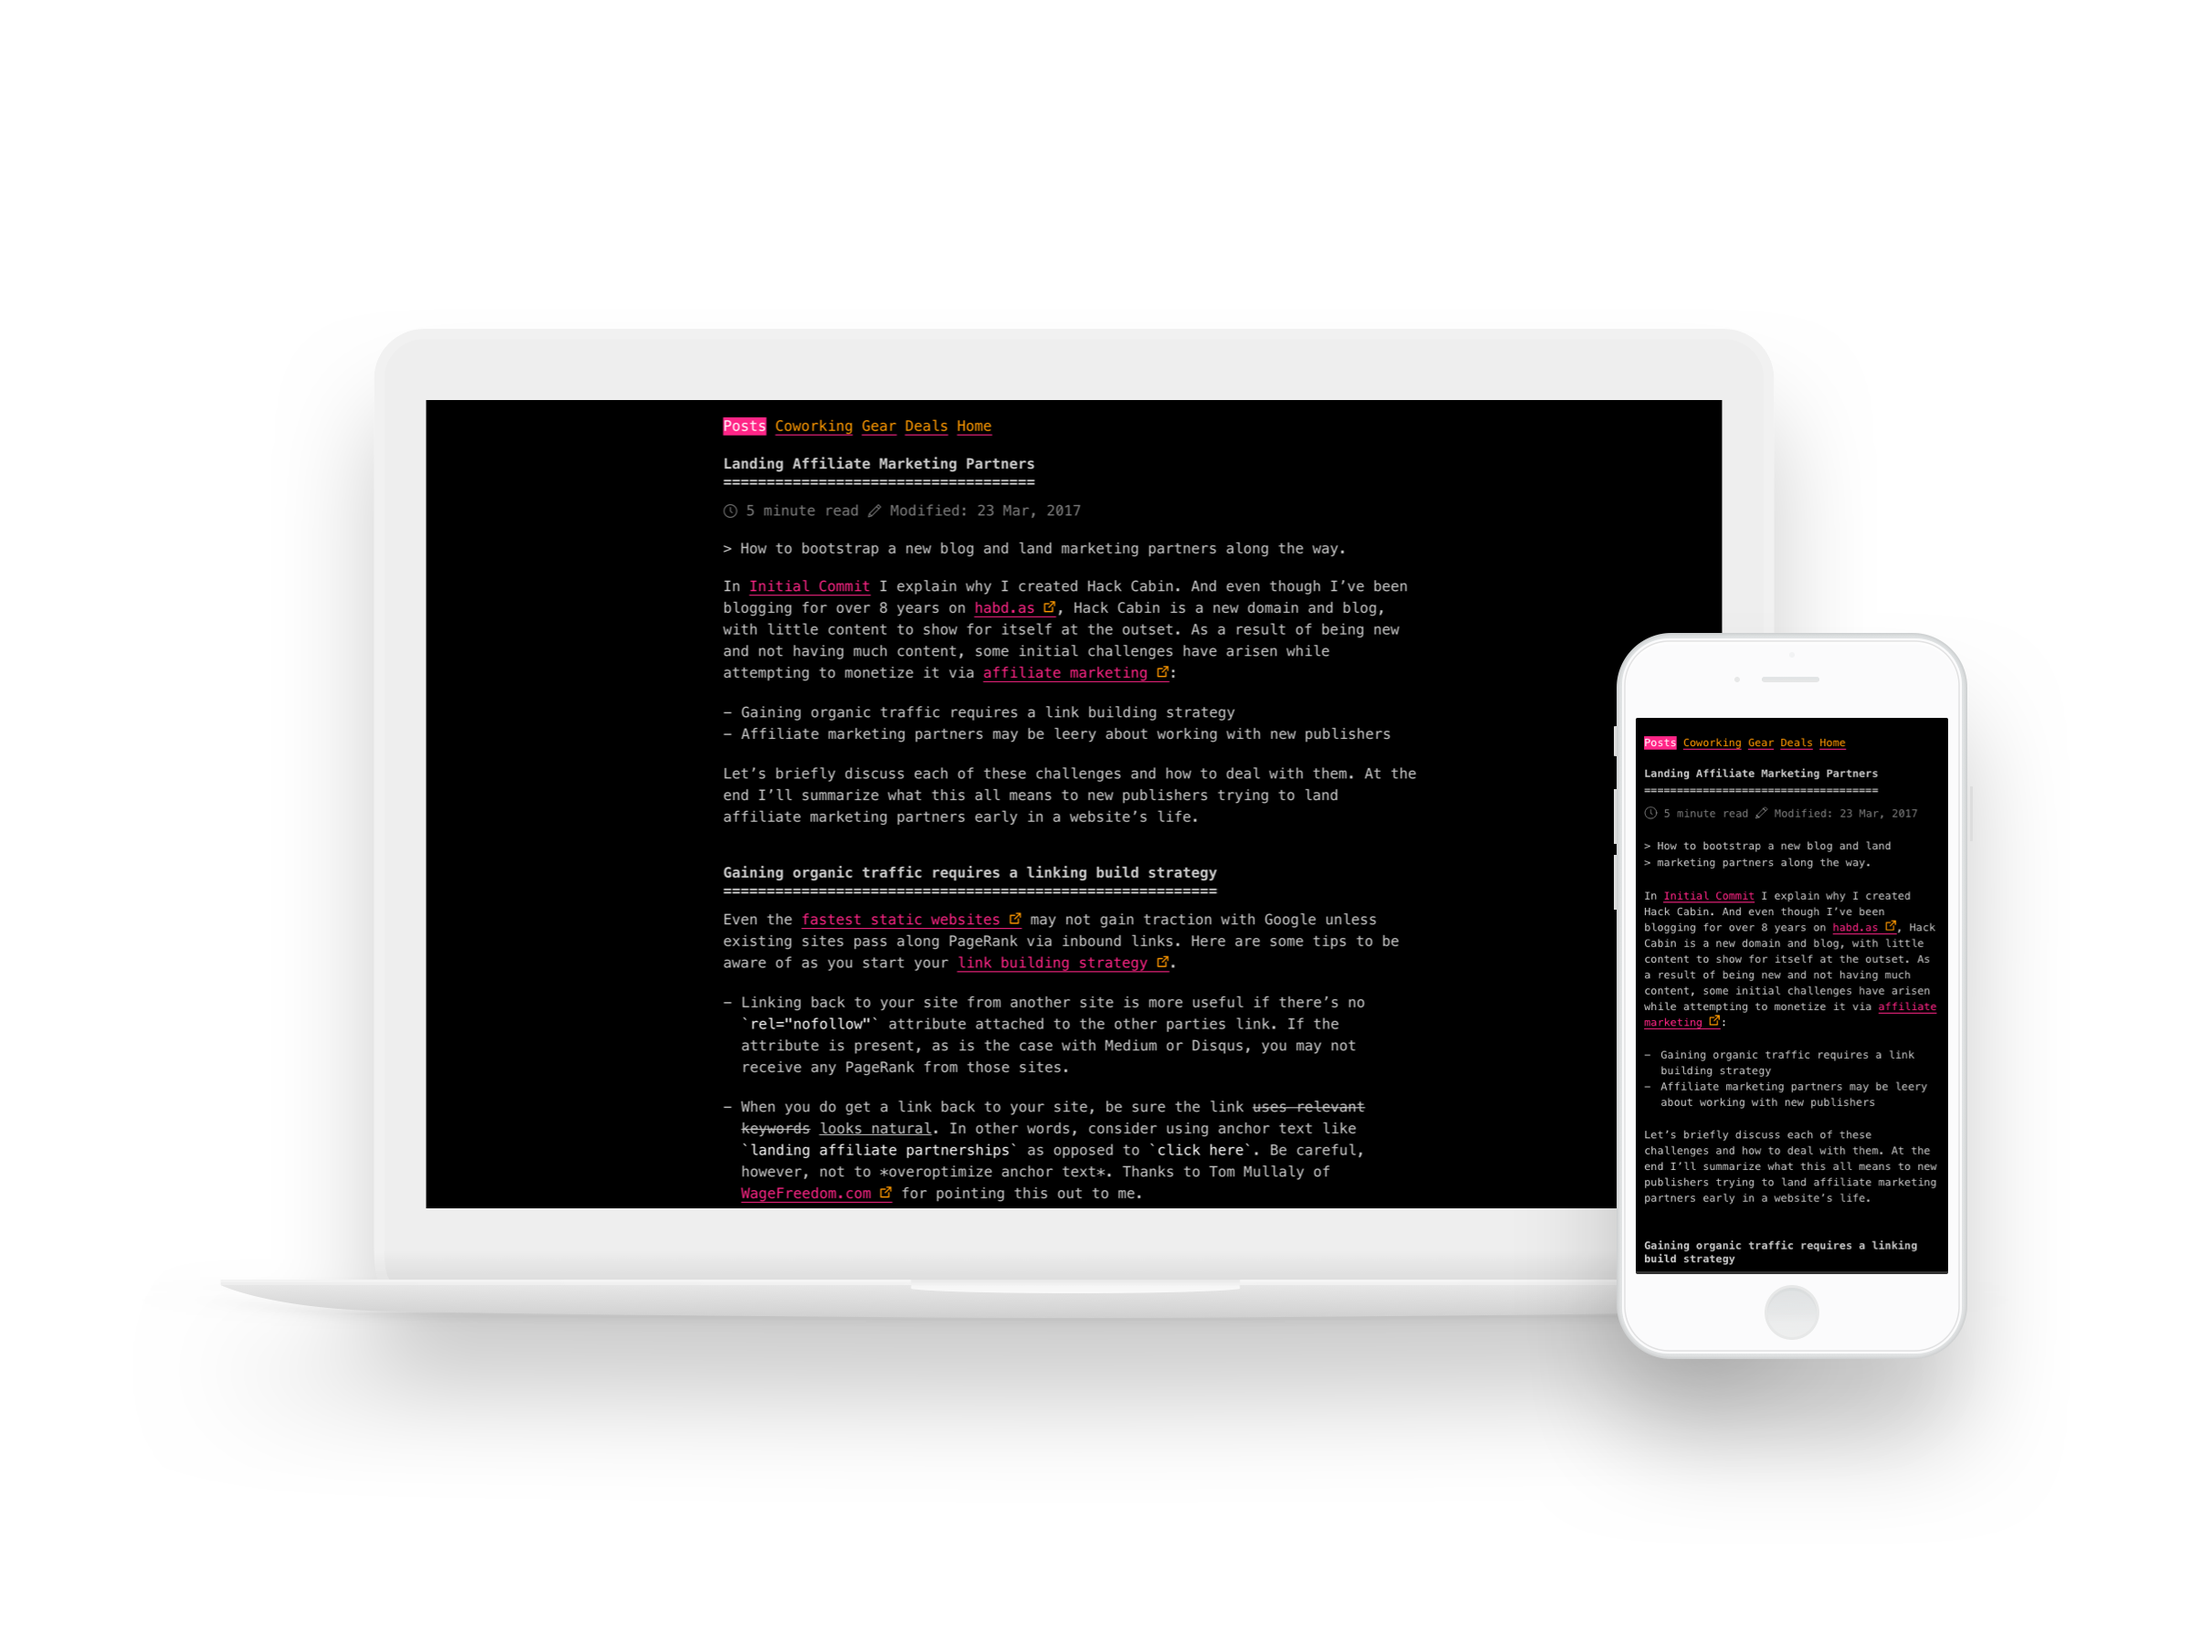
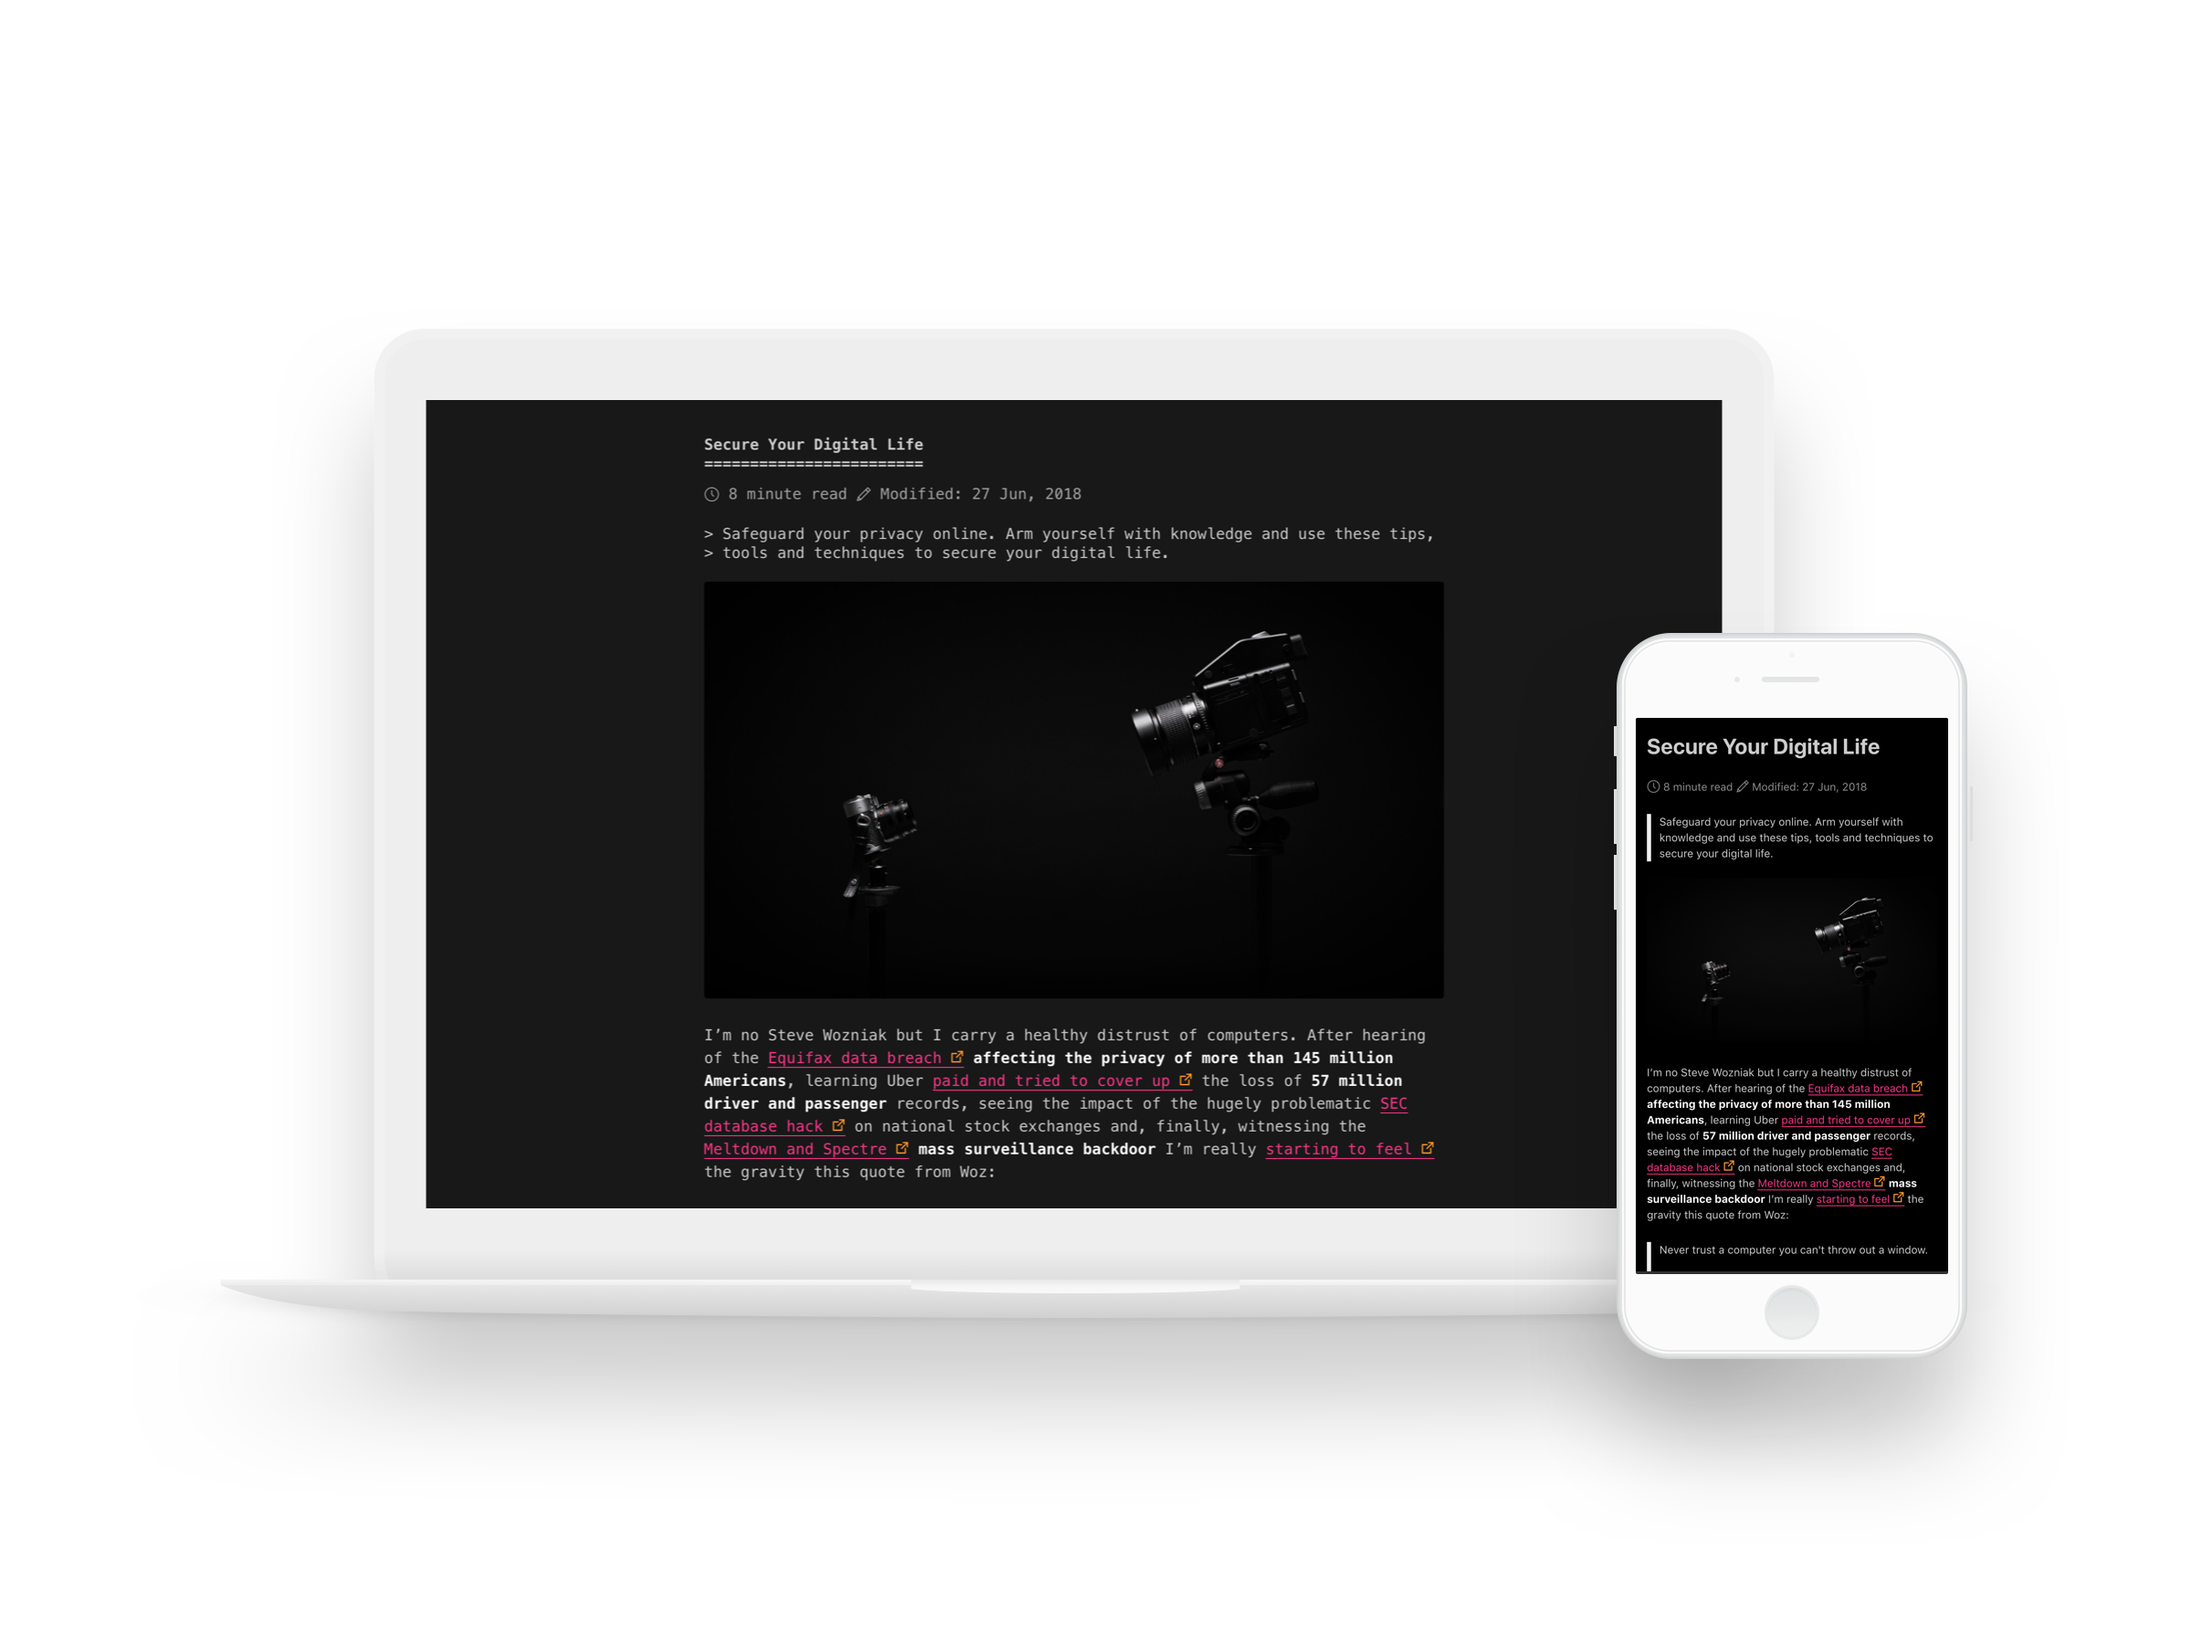
docs(readme): update theme screenshots
preview with theme variants

Changed region(s): [[0.3125, 0.2489, 0.6562, 0.7467], [0.75, 0.4356, 0.875, 0.7778]]

diff --git a/assets/css/theme.css b/assets/css/theme.css
@@ -2,12 +2,7 @@
   --screen-size-small: 30em; /* breakpoint reference only */
 }
 @keyframes intro {
-  0% {
-    opacity: 0;
-  }
-  100% {
-    opacity: 1;
-  }
+  0% { opacity: 0 }; 100% { opacity: 1 }
 }
 .blur-up {
   -webkit-filter: blur(5px);

diff --git a/README.md b/README.md
@@ -8,7 +8,7 @@
 [![Telegram chat](https://img.shields.io/badge/chat-telegram-32AFED.svg?style=flat-square)][1]
 [![WTFPL licensed](https://img.shields.io/npm/l/after-dark.svg?style=flat-square&longCache=true)](https://git.habd.as/comfusion/after-dark/src/branch/master/COPYING)
 
-![After Dark screenshots](https://git.habd.as/comfusion/after-dark/raw/branch/master/images/docs/minimal-mac-fs8.png)
+![After Dark screenshots](https://git.habd.as/comfusion/after-dark/raw/branch/master/images/docs/minimal-mac.png)
 
 ## Demo & Tutorial
 
